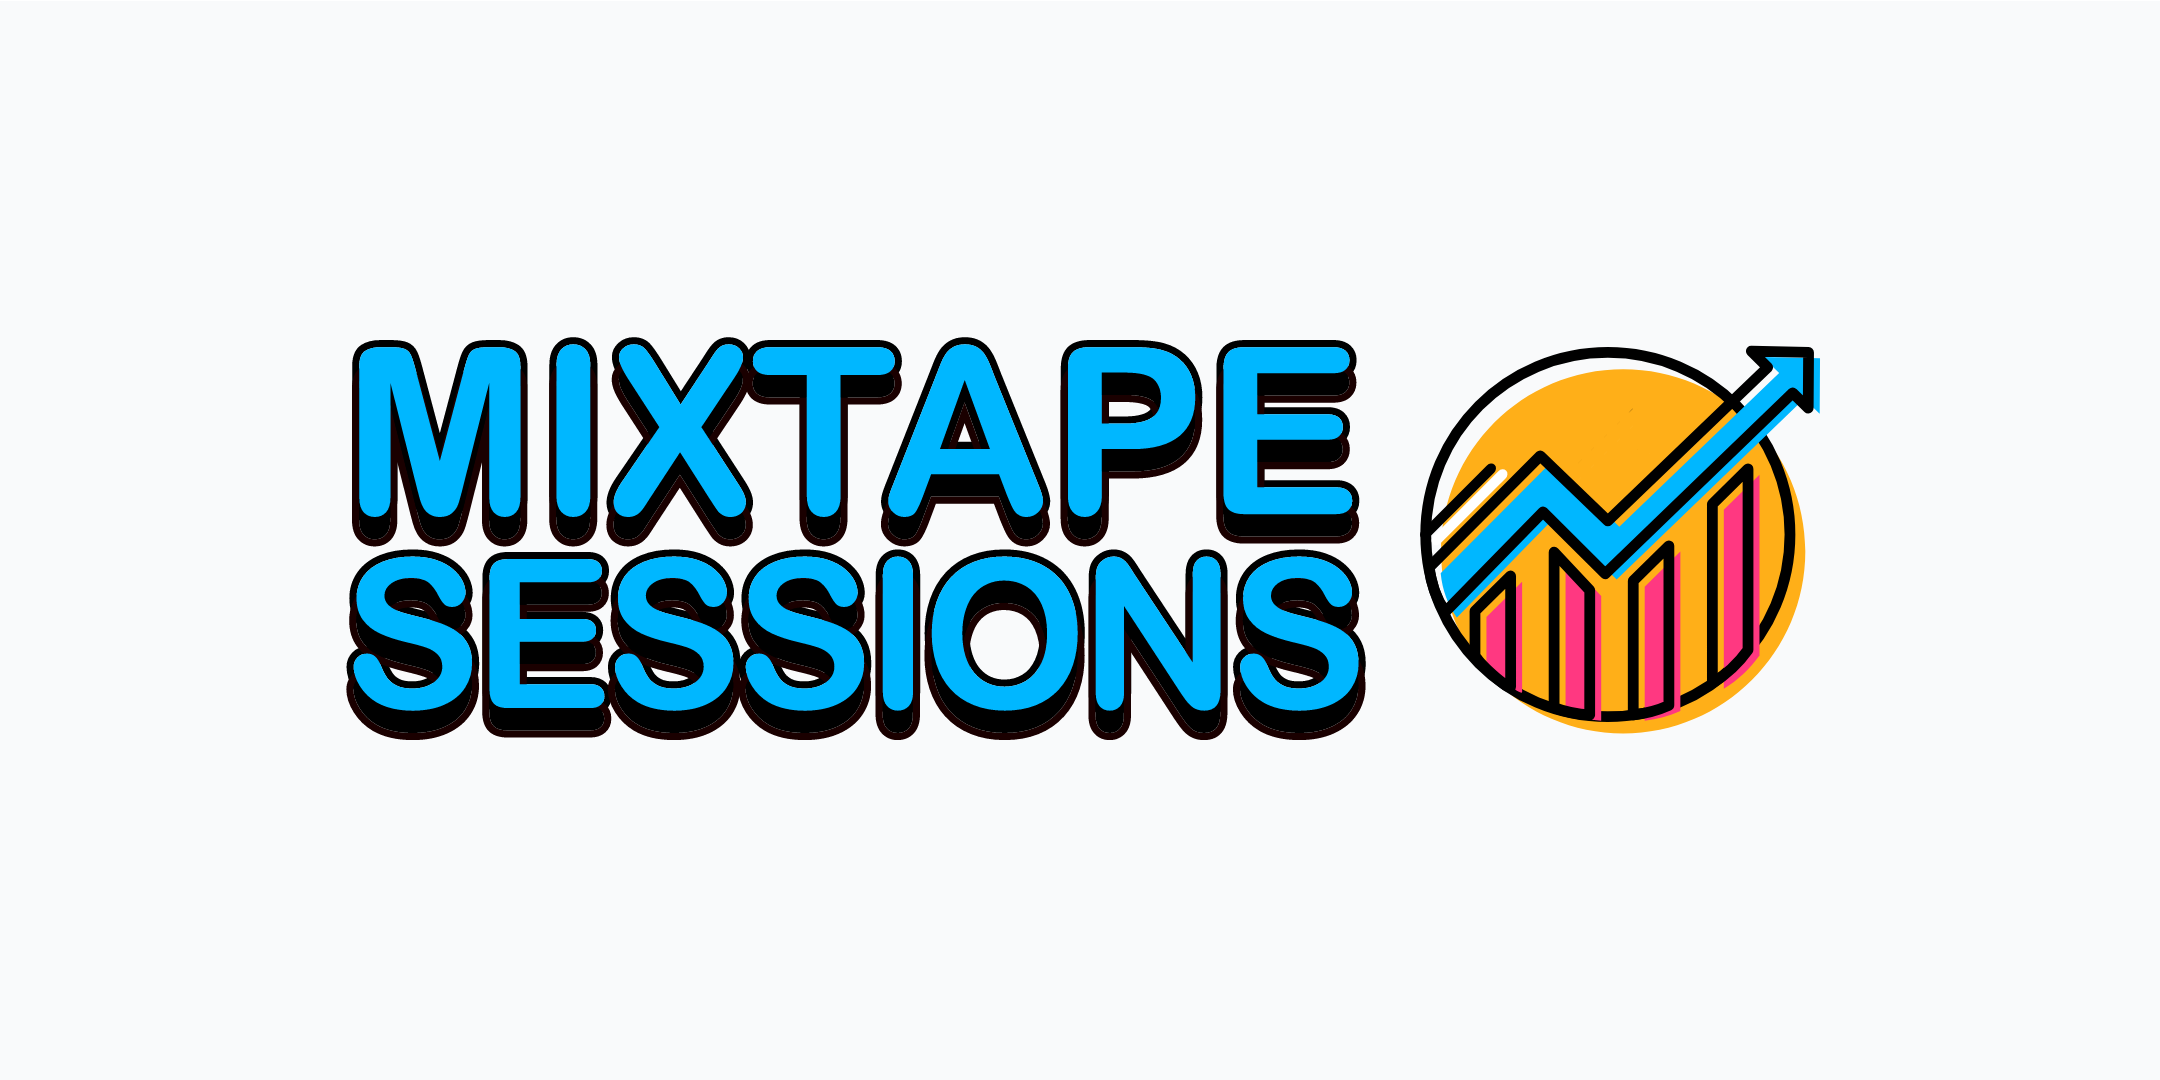
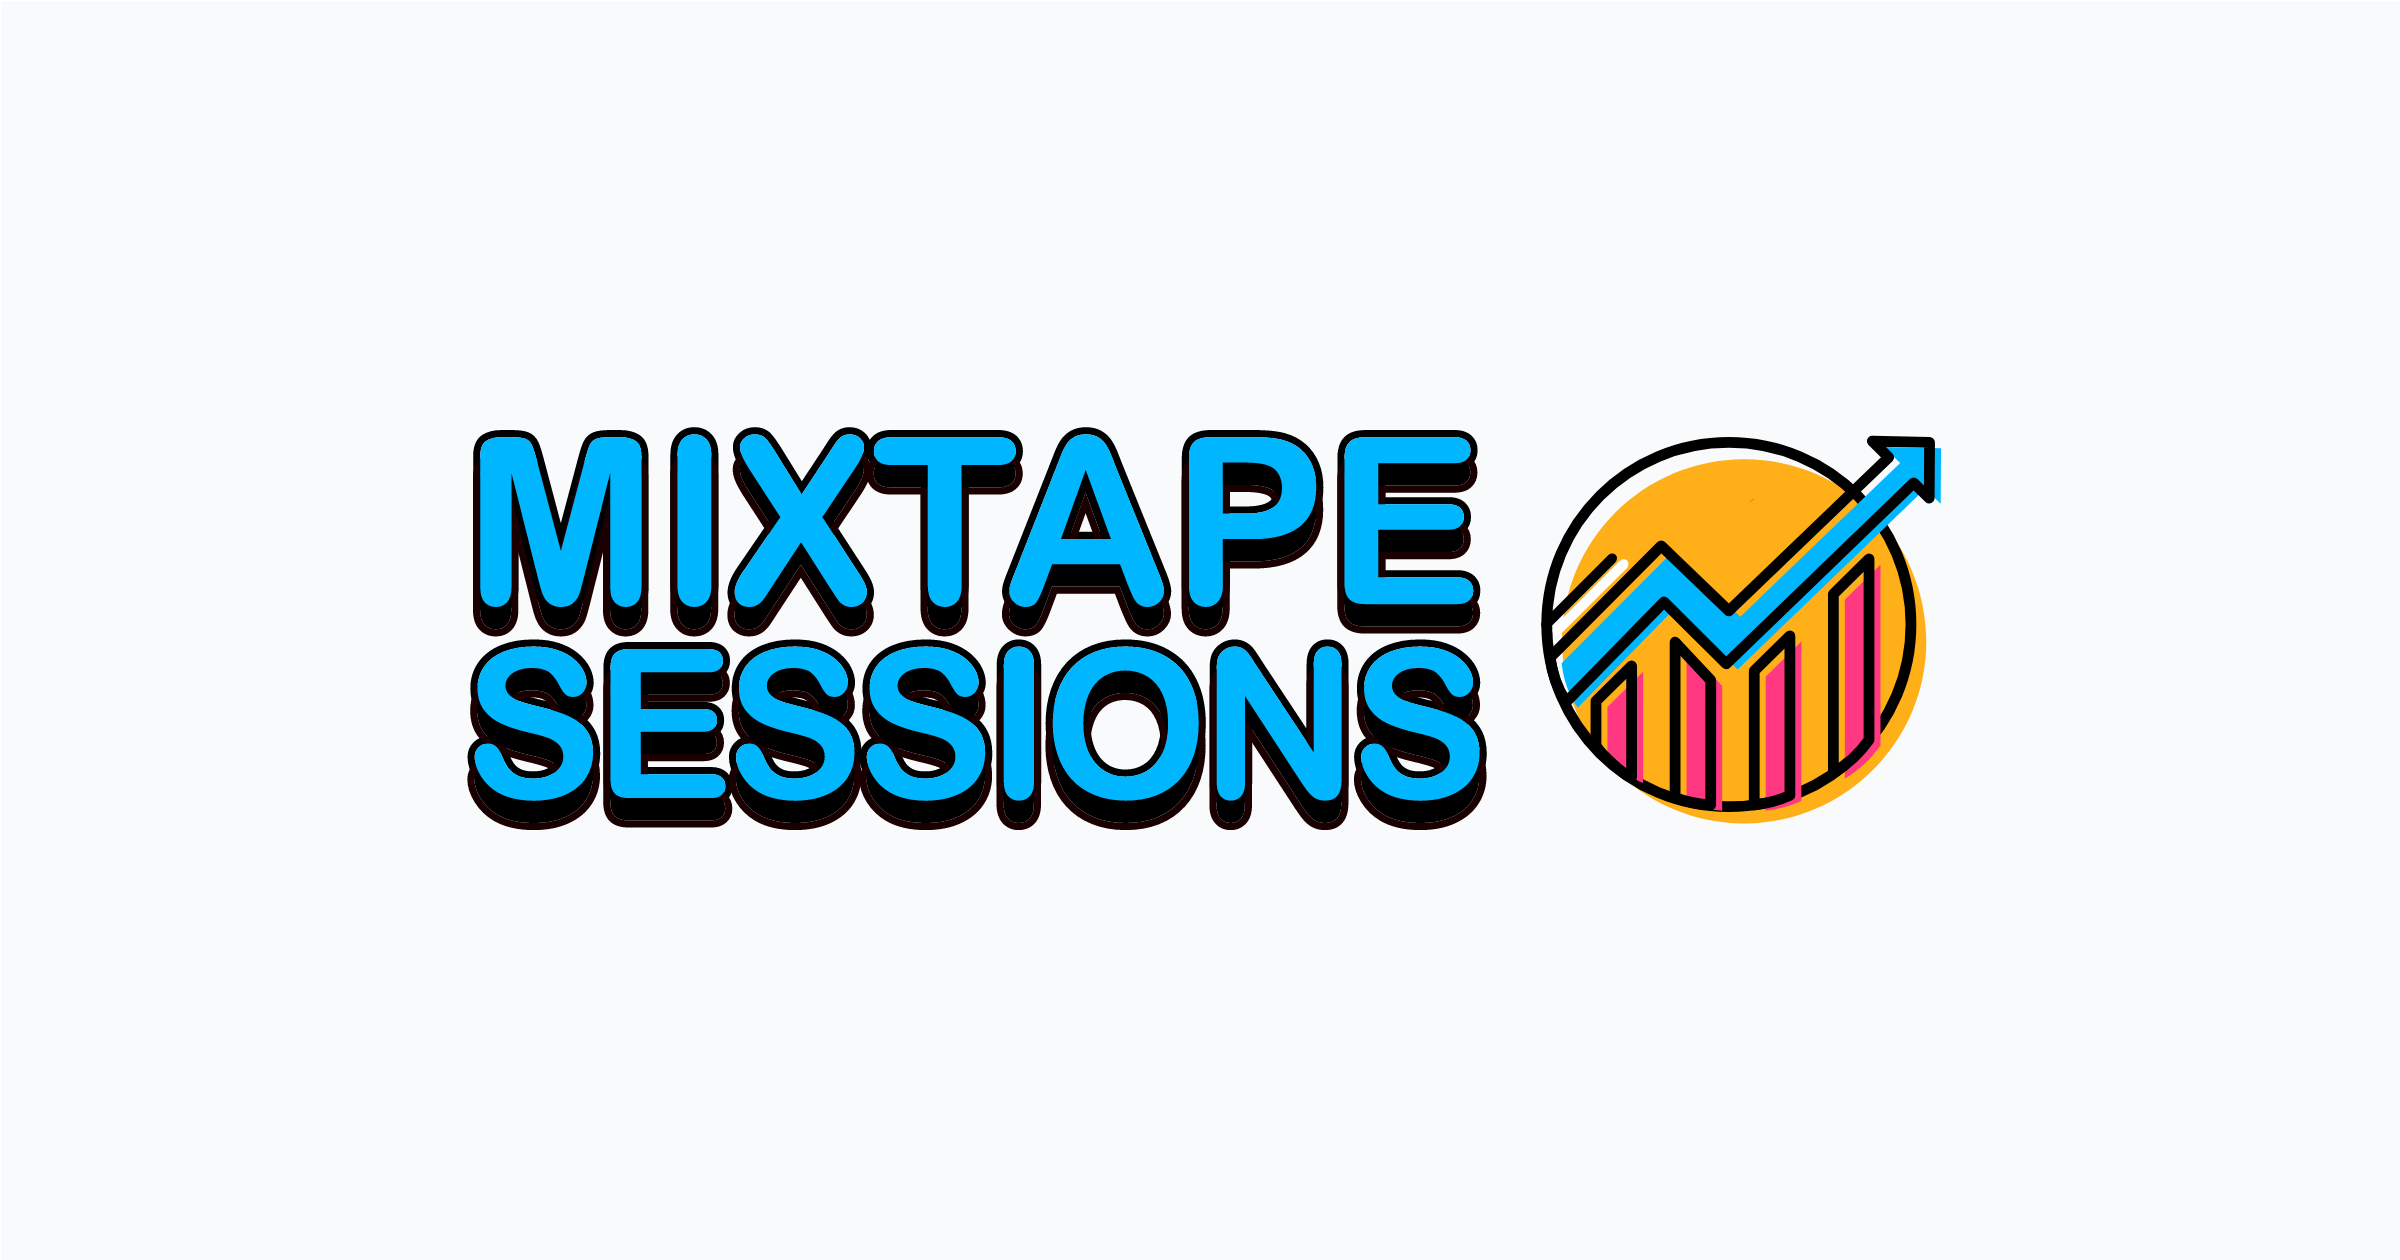
Attempt #1 at fixing Twitter Card

Changed region(s): [[0.1551, 0.3056, 0.8685, 0.7028]]

diff --git a/ads/twitter.html b/ads/twitter.html
@@ -23,7 +23,7 @@
 
 <body>
     <div class="min-h-screen bg-white py-6 flex flex-col justify-center sm:py-12">
-    <div class="w-[1080px] h-[540px] bg-gray-50 mx-auto">
+    <div class="w-[1200px] h-[630px] bg-gray-50 mx-auto">
       <div class="flex flex-row w-full h-full place-items-center justify-center space-x-2">
           <svg class="h-48" viewBox="0 0 10844 4424" xmlns="http://www.w3.org/2000/svg" xml:space="preserve" style="fill-rule:evenodd;clip-rule:evenodd;stroke-linejoin:round;stroke-miterlimit:2">
             <path style="fill:none" d="M-17031.2 23884.1h12622.1v5228.17h-12622.1z" transform="matrix(.85906 0 0 .84595 14630.7 -20204.03)" />

diff --git a/css/build.css b/css/build.css
@@ -1289,6 +1289,10 @@ Ensure the default browser behavior of the `hidden` attribute.
   height: 12rem;
 }
 
+.h-\[630px\] {
+  height: 630px;
+}
+
 .min-h-screen {
   min-height: 100vh;
 }
@@ -1355,6 +1359,10 @@ Ensure the default browser behavior of the `hidden` attribute.
 
 .w-48 {
   width: 12rem;
+}
+
+.w-\[1200px\] {
+  width: 1200px;
 }
 
 .max-w-6xl {
